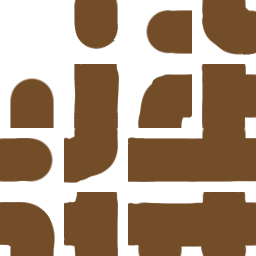
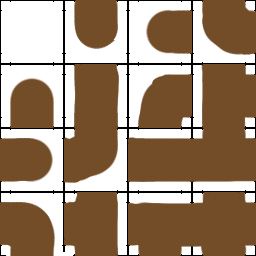
maze positioned on screen

diff --git a/src/ui/maze_plugin.rs b/src/ui/maze_plugin.rs
@@ -3,6 +3,8 @@ use moria::maze::{CellBorders, Maze, Position};
 
 use crate::ui::{Materials};
 
+use super::{WinSize, PositionToScreen};
+
 pub struct MazePlugin;
 
 impl Plugin for MazePlugin {
@@ -10,10 +12,6 @@ impl Plugin for MazePlugin {
         app.add_startup_stage("game_setup_maze", SystemStage::single(maze_spawn.system()))
         .add_system(maze_spawn.system());
     }
-}
-
-fn position_to_screen(pos: &Position, z: f32) -> Vec3 {
-    Vec3::new(64.0 * pos.x as f32 - 200.0, 64.0 * pos.y as f32 -100.0, z)
 }
 
 /// Get the index in the maze file
@@ -45,14 +43,15 @@ struct MazeComponent {}
 struct RoomComponent {
 }
 
-fn maze_spawn(mut commands: Commands, materials: Res<Materials>, maze: Res<Maze>) {
+fn maze_spawn(mut commands: Commands, materials: Res<Materials>, maze: Res<Maze>, win_size: Res<WinSize>) {
     // let mut idx = 0;
+    let p2s = PositionToScreen::new(&win_size);
     for x in 0..maze.width() {
         for y in 00..maze.height() {
             let pos = Position::new(x, y);
             if let Some(room) = maze.get_room(&pos) {
                 // eprintln!("{:?} : {}", pos, img_index(room.borders()));
-                let screen_pos = position_to_screen(&pos, 10.);
+                let screen_pos = p2s.to_screen(&pos, 10.);
                 commands
                     .spawn_bundle(SpriteSheetBundle {
                         texture_atlas: materials.maze.clone(),

diff --git a/src/ui.rs b/src/ui.rs
@@ -1,4 +1,5 @@
 use bevy::prelude::*;
+use moria::maze::Position;
 
 pub mod maze_plugin;
 pub mod player_plugin;
@@ -8,17 +9,42 @@ const MAZE: &str = "maze.png";
 
 pub const TIME_STEP: f32 = 1.0 / 20.;
 
-// RESSOURCES
+// region:    Resources
 pub struct Materials {
     player: Handle<Image>,
     maze: Handle<TextureAtlas>,
+}
+
+struct WinSize {
+	w: f32,
+	h: f32,
+}
+// endregion: Resources
+
+struct PositionToScreen<'a> {
+    win_size: &'a WinSize
+}
+
+impl<'a> PositionToScreen<'a> {
+    fn new(win_size: &'a WinSize) -> Self {
+        PositionToScreen { win_size }
+    }
+
+    fn to_screen(&self, pos: &Position, z: f32) -> Vec3 {
+        let x_offset = - self.win_size.w / 2. + 30.;
+        let y_offset = - self.win_size.h / 2. + 30.;
+        Vec3::new(64.0 * pos.x as f32 + x_offset, 64.0 * pos.y as f32 + y_offset, z)
+    }
 }
 
 pub fn setup(
     mut commands: Commands,
     assets: Res<AssetServer>,
     mut texture_atlases: ResMut<Assets<TextureAtlas>>,
+    mut windows: ResMut<Windows>
 ) {
+    let window = windows.get_primary_mut().unwrap();
+
     // Camera
     commands.spawn_bundle(OrthographicCameraBundle::new_2d());
 
@@ -29,4 +55,8 @@ pub fn setup(
         player: assets.load(PLAYER),
         maze: texture_atlases.add(texture_atlas),
     });
+    commands.insert_resource(WinSize {
+		w: window.width(),
+		h: window.height(),
+	});
 }

diff --git a/src/main.rs b/src/main.rs
@@ -6,15 +6,13 @@ mod ui;
 
 fn main() {
 
-    let maze = MazeBuilder::new(9, 5).create_maze();
+    let maze = MazeBuilder::new(24, 13).create_maze();
     eprintln!("{}", maze.to_string());
 
     App::new()
         .insert_resource(ClearColor(Color::rgb(0.1, 0.1, 0. )))
         .insert_resource(WindowDescriptor {
             title: "Moria - Rust".to_string(),
-            // width: 640.,
-            // height: 480.,
             mode: bevy::window::WindowMode::BorderlessFullscreen,
             ..Default::default()
         })
